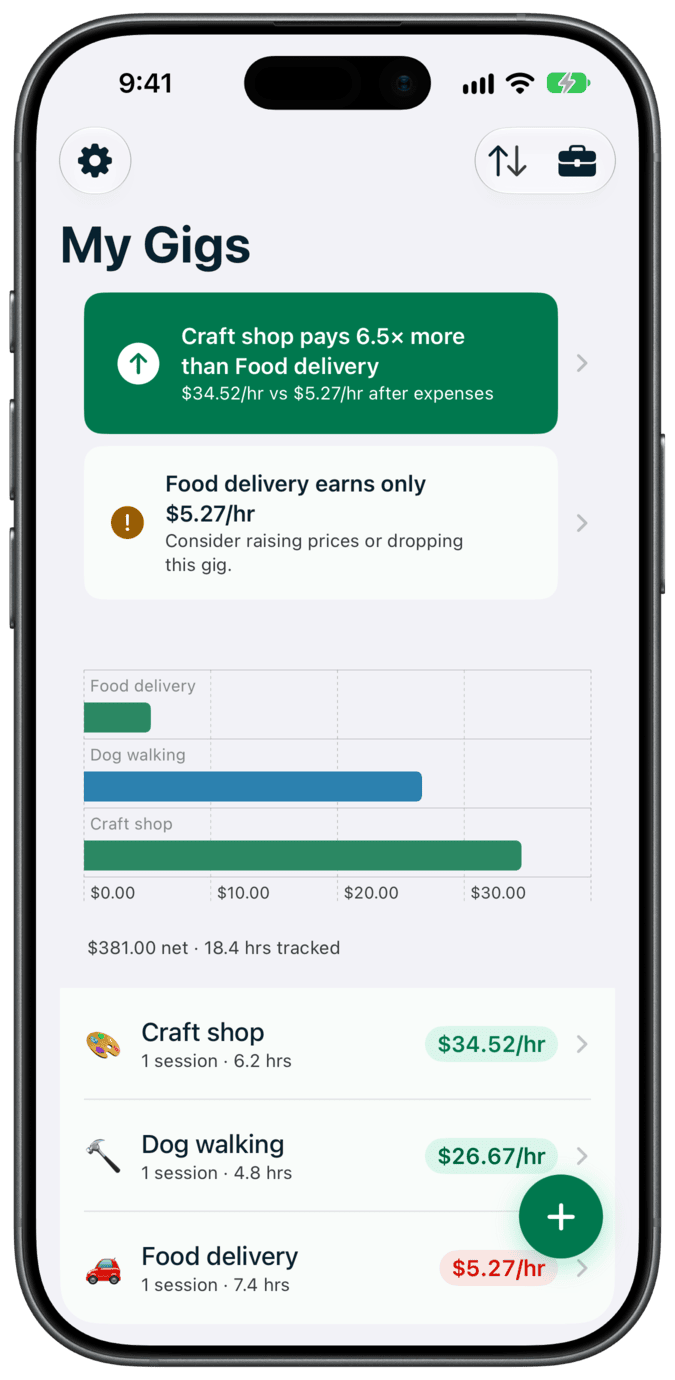
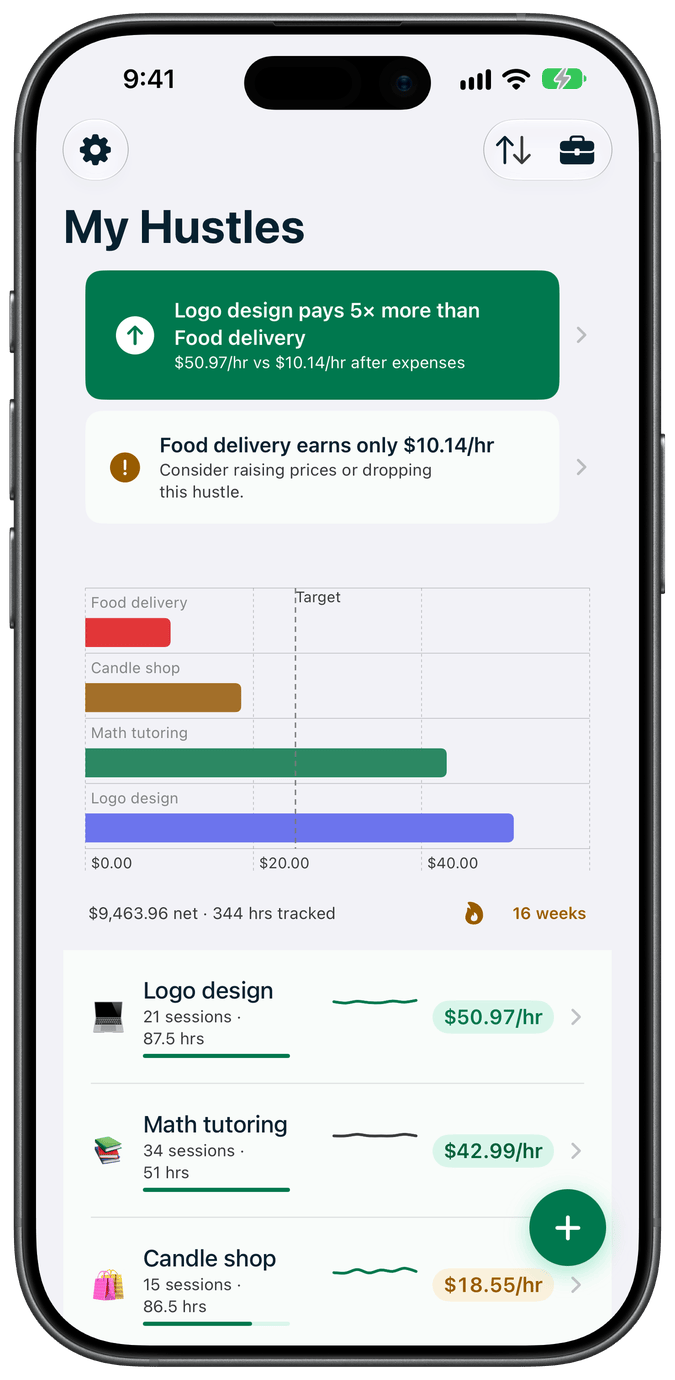
RealRate subsite: "My Hustles" hero and og:image from the 2026-09-29 captures
- Hero (dashboard.png/.webp, 675x1380): the #222 iPhone capture (iOS 27.0,
  en_CA, marketing seed) in the same iPhone 17 Black frame, replacing the
  pre-#221 "My Gigs" shot.
- og:image (1200x630): rebuilt on the new capture; the headline is the page's
  hero line, "Which side hustle actually pays?", with the subline saying
  "hustle" instead of "gig". Text on #FAFAF7: ink 18.45:1, accent #00784E
  5.29:1, soft ink 13.03:1.
- Both alt texts describe the new screen, and the stat illustration moves to
  the food delivery hustle now on screen: $1,986 over 119 hours, minus $779
  of gas and car repairs = $10.14/hr.

Refs NDCSwift/RealRate#227

diff --git a/realrate/index.html b/realrate/index.html
@@ -17,7 +17,7 @@
 <meta property="og:image" content="https://ndcswift.github.io/realrate/img/og-image.png" />
 <meta property="og:image:width" content="1200" />
 <meta property="og:image:height" content="630" />
-<meta property="og:image:alt" content="RealRate ranking three side hustles by true hourly rate: Craft shop $34.52, Dog walking $26.67, Food delivery $5.27." />
+<meta property="og:image:alt" content="&quot;Which side hustle actually pays?&quot; beside RealRate ranking four side hustles by true hourly rate: Logo design $50.97, Math tutoring $42.99, Candle shop $18.55, Food delivery $10.14." />
 <meta name="twitter:card" content="summary_large_image" />
 <meta name="twitter:image" content="https://ndcswift.github.io/realrate/img/og-image.png" />
 <meta name="twitter:title" content="RealRate: Side Hustle Tracker — Your True Hourly Rate" />
@@ -532,7 +532,7 @@
       <picture>
         <source srcset="/realrate/img/dashboard.webp" type="image/webp" />
         <img class="phone-shot" src="/realrate/img/dashboard.png" width="675" height="1380"
-             alt="RealRate's dashboard. Craft shop earns $34.52 an hour, Dog walking $26.67, and Food delivery $5.27 after expenses. An insight card says Craft shop pays 6.5 times more than Food delivery." />
+             alt="RealRate's My Hustles dashboard. Logo design earns $50.97 an hour after expenses, Math tutoring $42.99 and Candle shop $18.55. An insight card says Logo design pays 5 times more than Food delivery, which earns only $10.14 an hour." />
       </picture>
     </div>
   </header>
@@ -552,8 +552,8 @@
         </ul>
       </div>
       <div class="stat-card">
-        <div class="stat-num">$5.27<small>/hr</small></div>
-        <div class="stat-caption">An illustration, not an average: the food delivery hustle on the screen above takes in $124 over 7.4 hours, then $85 of gas comes out.</div>
+        <div class="stat-num">$10.14<small>/hr</small></div>
+        <div class="stat-caption">An illustration, not an average: the food delivery hustle on the screen above takes in $1,986 over 119 hours, then $779 of gas and car repairs comes out.</div>
       </div>
     </div>
   </div>
